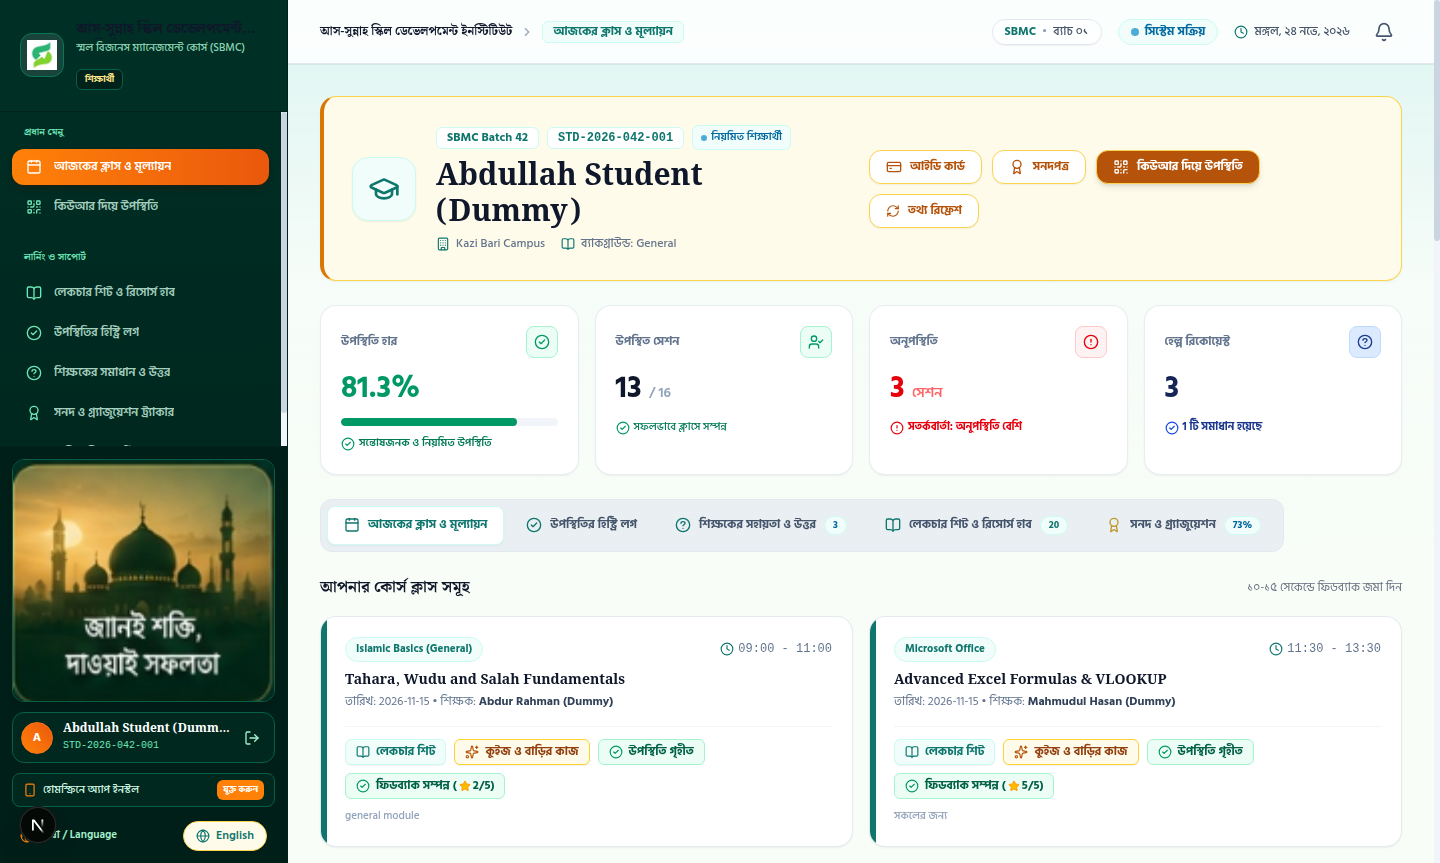
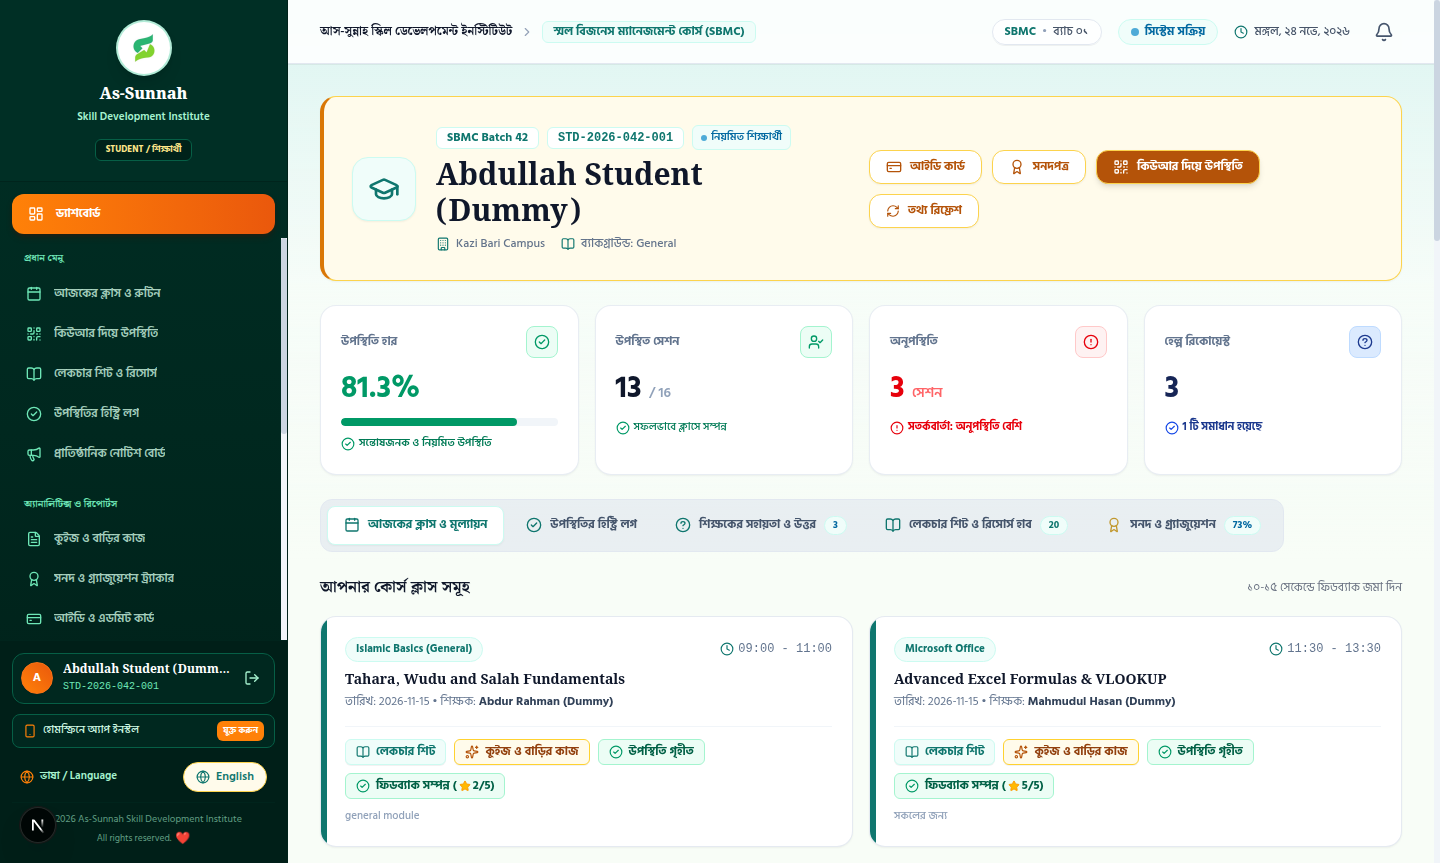
feat(design): align student sidebar layout with reference image and high-res mosque card

diff --git a/web/src/components/layout/DashboardShell.tsx b/web/src/components/layout/DashboardShell.tsx
@@ -34,6 +34,8 @@ import {
   Bookmark,
   Archive,
   Smartphone,
+  CreditCard,
+  MessageSquare,
 } from 'lucide-react';
 import { triggerPwaInstall } from '@/components/pwa/PwaInstaller';
 import { useAuth } from '@/contexts/AuthContext';
@@ -357,12 +359,12 @@ export default function DashboardShell({ children, role, noticeBanner }: Dashboa
         return [
           {
             titleBn: 'প্রধান মেনু',
-            titleEn: 'Main Menu',
+            titleEn: 'MAIN MENU',
             items: [
               {
-                href: '/student',
-                labelBn: 'আজকের ক্লাস ও মূল্যায়ন',
-                labelEn: "Today's Schedule & Feedback",
+                href: '/student?tab=schedule',
+                labelBn: 'আজকের ক্লাস ও রুটিন',
+                labelEn: "Class Sessions & Routine",
                 icon: Calendar,
               },
               {
@@ -371,15 +373,9 @@ export default function DashboardShell({ children, role, noticeBanner }: Dashboa
                 labelEn: 'Scan Attendance QR',
                 icon: QrCode,
               },
-            ],
-          },
-          {
-            titleBn: 'লার্নিং ও সাপোর্ট',
-            titleEn: 'Learning & Support',
-            items: [
               {
                 href: '/student?tab=materials',
-                labelBn: 'লেকচার শিট ও রিসোর্স হাব',
+                labelBn: 'লেকচার শিট ও রিসোর্স',
                 labelEn: 'Lecture Notes & Hub',
                 icon: BookOpen,
               },
@@ -390,10 +386,22 @@ export default function DashboardShell({ children, role, noticeBanner }: Dashboa
                 icon: CheckCircle2,
               },
               {
-                href: '/student?tab=help',
-                labelBn: 'শিক্ষকের সমাধান ও উত্তর',
-                labelEn: 'Teacher Help & Replies',
-                icon: HelpCircle,
+                href: '/announcements',
+                labelBn: 'প্রাতিষ্ঠানিক নোটিশ বোর্ড',
+                labelEn: 'Notice Board',
+                icon: Megaphone,
+              },
+            ],
+          },
+          {
+            titleBn: 'অ্যানালিটিক্স ও রিপোর্টস',
+            titleEn: 'ANALYTICS & REPORTS',
+            items: [
+              {
+                href: '/student?tab=quizzes',
+                labelBn: 'কুইজ ও বাড়ির কাজ',
+                labelEn: 'Quizzes & Homework',
+                icon: FileText,
               },
               {
                 href: '/student?tab=graduation',
@@ -402,10 +410,28 @@ export default function DashboardShell({ children, role, noticeBanner }: Dashboa
                 icon: Award,
               },
               {
-                href: '/announcements',
-                labelBn: 'প্রাতিষ্ঠানিক নোটিশ বোর্ড',
-                labelEn: 'Notice Board',
-                icon: Megaphone,
+                href: '/student?card=true',
+                labelBn: 'আইডি ও এডমিট কার্ড',
+                labelEn: 'Student ID & Admit Card',
+                icon: CreditCard,
+              },
+            ],
+          },
+          {
+            titleBn: 'সাপোর্ট ও সহায়তা',
+            titleEn: 'SUPPORT',
+            items: [
+              {
+                href: '/student?tab=help',
+                labelBn: 'শিক্ষকের সমাধান ও উত্তর',
+                labelEn: 'Help & Support',
+                icon: HelpCircle,
+              },
+              {
+                href: '/student?tab=help&ask=true',
+                labelBn: 'সহায়তার আবেদন পাঠান',
+                labelEn: 'Submit Help Request',
+                icon: MessageSquare,
               },
             ],
           },
@@ -667,74 +693,101 @@ export default function DashboardShell({ children, role, noticeBanner }: Dashboa
       >
         {/* Top: Institute Brand & Identity */}
         <div className="flex flex-col flex-1 min-h-0">
-          <div
-            className={`p-4 sm:p-5 border-b flex items-start justify-between shrink-0 ${
-              role === 'student'
-                ? 'bg-[#002F25] border-[#00241C]'
-                : 'bg-[#FFFBEB] border-[#FCD34D]'
-            }`}
-          >
-            <Link
-              href={role === 'super_admin' ? '/admin' : role === 'teacher' ? '/teacher' : role === 'student' ? '/student' : '/coordinator'}
-              onClick={() => setMobileSidebarOpen(false)}
-              className="flex items-center gap-3 group"
-            >
-              <div
-                className={`w-10 h-10 sm:w-11 sm:h-11 rounded-xl p-1.5 flex items-center justify-center shrink-0 shadow-xs transition-transform group-hover:scale-105 ${
-                  role === 'student'
-                    ? 'bg-white/10 border border-[#047857]'
-                    : 'bg-white border border-[#FCD34D]'
-                }`}
+          {role === 'student' ? (
+            <div className="p-4 sm:p-5 border-b border-[#00241C] bg-[#002F25] flex flex-col items-center text-center shrink-0 relative">
+              <button
+                onClick={() => setMobileSidebarOpen(false)}
+                className="absolute top-3 right-3 p-1.5 rounded-full md:hidden cursor-pointer active:scale-95 transition bg-white/10 hover:bg-white/20 text-[#A7F3D0] border border-[#065F46]"
+                aria-label="Close navigation"
               >
-                <Image
-                  src="/logo.png"
-                  alt="ASSDI Logo"
-                  width={34}
-                  height={34}
-                  className="object-contain"
-                />
-              </div>
-              <div className="min-w-0">
-                <h1
-                  className={`font-extrabold text-xs sm:text-sm tracking-tight leading-snug line-clamp-1 font-serif ${
-                    role === 'student' ? 'text-white' : 'text-[#0F172A]'
-                  }`}
-                >
-                  {t('brand.name')}
-                </h1>
-                <p
-                  className={`text-[11px] font-medium line-clamp-1 ${
-                    role === 'student' ? 'text-[#A7F3D0]/85' : 'text-[#64748B]'
-                  }`}
-                >
-                  {t('brand.course')}
-                </p>
-                <div className="mt-1">
-                  <span
-                    className={`inline-block px-2 py-0.5 text-[9px] font-bold uppercase rounded-md tracking-wider ${
-                      role === 'student'
-                        ? 'bg-[#00221A] text-[#FDE68A] border border-[#065F46]'
-                        : 'bg-white text-[#B45309] border border-[#FCD34D]'
-                    }`}
-                  >
-                    {roleBadge.label}
+                <X className="w-4 h-4" />
+              </button>
+
+              <Link
+                href="/student"
+                onClick={() => setMobileSidebarOpen(false)}
+                className="flex flex-col items-center group cursor-pointer"
+              >
+                <div className="w-14 h-14 rounded-full bg-white p-2.5 flex items-center justify-center shadow-lg border-2 border-emerald-500/30 mb-2 group-hover:scale-105 transition-transform">
+                  <Image
+                    src="/logo.png"
+                    alt="ASSDI Logo"
+                    width={40}
+                    height={40}
+                    className="object-contain"
+                  />
+                </div>
+                <span className="font-extrabold !text-white text-base tracking-tight leading-snug font-serif block">
+                  As-Sunnah
+                </span>
+                <span className="text-[11px] font-semibold !text-[#A7F3D0] tracking-wider mt-0.5 block">
+                  Skill Development Institute
+                </span>
+                <div className="mt-1.5">
+                  <span className="inline-block px-2.5 py-0.5 text-[9px] font-bold uppercase rounded-md tracking-wider bg-[#00221A] text-[#FDE68A] border border-[#065F46]">
+                    STUDENT / শিক্ষার্থী
                   </span>
                 </div>
-              </div>
-            </Link>
+              </Link>
+            </div>
+          ) : (
+            <div className="p-4 sm:p-5 border-b border-[#FCD34D] flex items-start justify-between bg-[#FFFBEB] shrink-0">
+              <Link
+                href={role === 'super_admin' ? '/admin' : role === 'teacher' ? '/teacher' : '/coordinator'}
+                onClick={() => setMobileSidebarOpen(false)}
+                className="flex items-center gap-3 group"
+              >
+                <div className="w-10 h-10 sm:w-11 sm:h-11 rounded-xl bg-white p-1.5 flex items-center justify-center shrink-0 shadow-xs border border-[#FCD34D] group-hover:scale-105 transition-transform">
+                  <Image
+                    src="/logo.png"
+                    alt="ASSDI Logo"
+                    width={34}
+                    height={34}
+                    className="object-contain"
+                  />
+                </div>
+                <div className="min-w-0">
+                  <h1 className="font-extrabold text-[#0F172A] text-xs sm:text-sm tracking-tight leading-snug line-clamp-1 font-serif">
+                    {t('brand.name')}
+                  </h1>
+                  <p className="text-[11px] text-[#64748B] font-medium line-clamp-1">
+                    {t('brand.course')}
+                  </p>
+                  <div className="mt-1">
+                    <span className="inline-block px-2 py-0.5 text-[9px] font-bold uppercase rounded-md tracking-wider bg-white text-[#B45309] border border-[#FCD34D]">
+                      {roleBadge.label}
+                    </span>
+                  </div>
+                </div>
+              </Link>
 
-            <button
-              onClick={() => setMobileSidebarOpen(false)}
-              className={`p-1.5 rounded-full md:hidden cursor-pointer active:scale-95 transition shadow-2xs ${
-                role === 'student'
-                  ? 'bg-white/10 hover:bg-white/20 text-[#A7F3D0] border border-[#065F46]'
-                  : 'bg-white/90 hover:bg-white text-slate-600 hover:text-slate-900 border border-[#FCD34D]'
-              }`}
-              aria-label="Close navigation"
-            >
-              <X className="w-5 h-5" />
-            </button>
-          </div>
+              <button
+                onClick={() => setMobileSidebarOpen(false)}
+                className="p-1.5 rounded-full bg-white/90 hover:bg-white text-slate-600 hover:text-slate-900 border border-[#FCD34D] md:hidden cursor-pointer active:scale-95 transition shadow-2xs"
+                aria-label="Close navigation"
+              >
+                <X className="w-5 h-5" />
+              </button>
+            </div>
+          )}
+
+          {/* Top Primary Orange Button: Dashboard (Student only, as in Reference Image 1) */}
+          {role === 'student' && (
+            <div className="px-3 pt-3 pb-1">
+              <Link
+                href="/student"
+                onClick={() => handleNavClick('/student')}
+                className={`w-full flex items-center gap-3 px-4 py-3 rounded-xl text-xs font-bold transition-all shadow-md active:scale-98 cursor-pointer ${
+                  pathname === '/student' && (!currentSearch || currentSearch === '?tab=dashboard')
+                    ? 'bg-gradient-to-r from-[#FF8108] to-[#EA580C] text-white shadow-orange-950/40'
+                    : 'bg-[#00241C] text-[#D1FAE5] hover:bg-white/10 hover:text-white border border-[#065F46]'
+                }`}
+              >
+                <LayoutDashboard className="w-4 h-4 text-white shrink-0" />
+                <span>{isBangla ? 'ড্যাশবোর্ড' : 'Dashboard'}</span>
+              </Link>
+            </div>
+          )}
 
           {/* Navigation Items (Serial by Serial) */}
           <nav className="p-3 space-y-6 overflow-y-auto flex-1">
@@ -847,6 +900,23 @@ export default function DashboardShell({ children, role, noticeBanner }: Dashboa
                 </button>
               </div>
             )}
+
+            {/* Islamic Mosque Artwork Quote Card (Student Only - Ultra HD from User Image 3, placed after menu sections) */}
+            {role === 'student' && (
+              <div className="pt-2">
+                <div className="rounded-2xl overflow-hidden border-2 border-[#D97706]/40 shadow-xl bg-[#00261E] relative group mx-0.5">
+                  <Image
+                    src="/islamic-sidebar-card.png"
+                    alt="জ্ঞানই শক্তি, দাওয়াই সফলতা"
+                    width={360}
+                    height={360}
+                    priority
+                    quality={100}
+                    className="w-full h-auto object-cover rounded-xl group-hover:scale-102 transition-transform duration-300"
+                  />
+                </div>
+              </div>
+            )}
           </nav>
         </div>
 
@@ -858,19 +928,6 @@ export default function DashboardShell({ children, role, noticeBanner }: Dashboa
               : 'border-[#FCD34D] bg-[#FFFBEB]'
           }`}
         >
-          {/* Islamic Mosque Artwork Quote Card (Student Only - from Reference Design) */}
-          {role === 'student' && (
-            <div className="rounded-xl overflow-hidden border border-[#065F46] shadow-md bg-[#00261E] relative group">
-              <Image
-                src="/islamic-sidebar-card.png"
-                alt="জ্ঞানই শক্তি, দাওয়াই সফলতা"
-                width={260}
-                height={130}
-                className="w-full h-auto object-cover group-hover:scale-105 transition-transform duration-300"
-              />
-            </div>
-          )}
-
           {/* User info snippet */}
           <div
             className={`flex items-center justify-between gap-2 p-2 rounded-xl shadow-2xs ${
@@ -955,6 +1012,17 @@ export default function DashboardShell({ children, role, noticeBanner }: Dashboa
             </span>
             <LanguageSwitcher />
           </div>
+
+          {/* Student Footer Copyright with Red Heart (Image 1 Style) */}
+          {role === 'student' && (
+            <div className="text-center pt-2 pb-1 text-[10px] text-[#A7F3D0]/60 space-y-0.5 border-t border-[#00241C]">
+              <p>© 2026 As-Sunnah Skill Development Institute</p>
+              <p className="flex items-center justify-center gap-1 text-[9.5px]">
+                <span>All rights reserved.</span>
+                <span className="text-rose-500 text-xs">❤</span>
+              </p>
+            </div>
+          )}
         </div>
       </aside>
 
